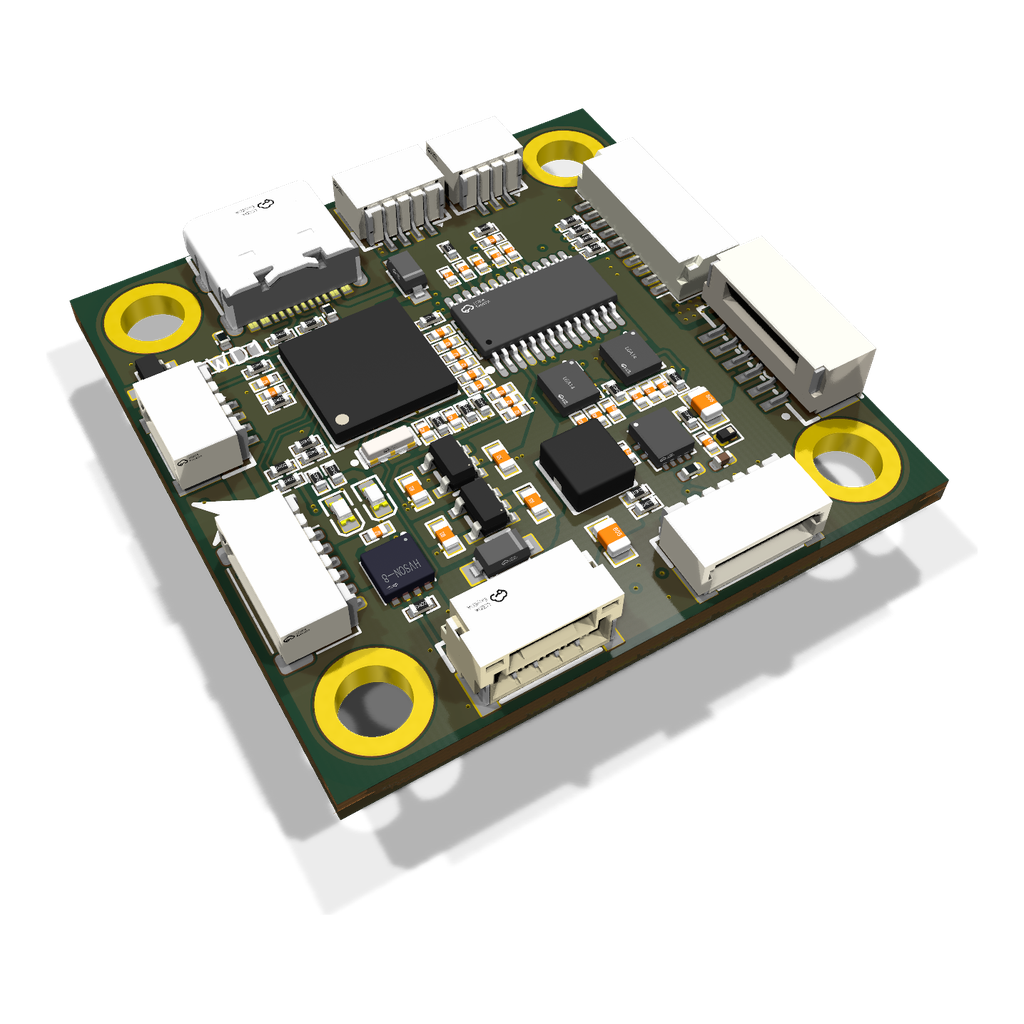
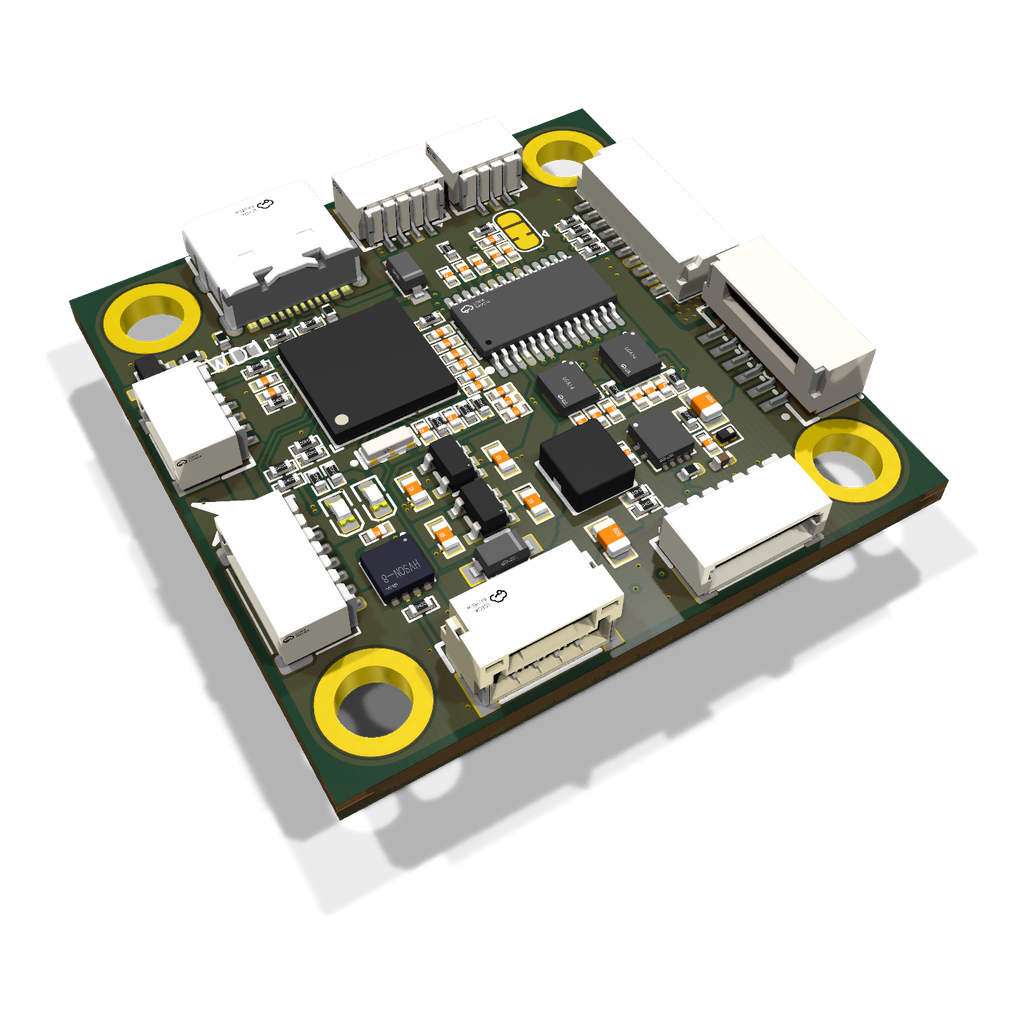
AF-H7 nano V2: Betaflight motor order, power-select jumpers, buzzer switch and jig pads
## Problem
The V2 board changed after 박재량's comments (fc/AF-H7-nano-V2 v0.0.13): motor pads now read M1-M4 in
Betaflight order, camera / VTX supplies can be moved to VBAT, a buzzer + pad with a 1 A switch and a row of
flashing-jig pads were added. The catalog page and pinout still showed the earlier board.

## Solution
- src/content/fc/AF-H7-nano-V2.md: Motor Order, Power Select Pads, Buzzer / Switch and Production Pads specs,
  camera / VTX pin notes, firmware note FRAME_TYPE 12.
- tools/pinout/h7_nano_v2_pinout.py: VTX power jumper on the top figure, ESC pads labelled M1-M4, a third figure
  for the bottom option and production pads, notes updated.
- Images re-rendered from the new board (card, top, bottom, isometric views, pinout).

diff --git a/tools/pinout/h7_nano_v2_pinout.py b/tools/pinout/h7_nano_v2_pinout.py
@@ -57,10 +57,18 @@ TOP = [
     ("CAN", (137.36, 118.38, 146.17, 123.77), "h", range(1, 5), "L", "B"),
     ("DJI O3", (150.65, 118.36, 159.26, 123.86), "h", range(1, 7), "L", "B"),
 ]
+# 아랫면 선택 · 생산 패드(V2 · 박재량 TM8a3d4469 #13~15): 점퍼는 가운데 = 나가는 쪽, 5V/12V 쪽이 구리로 이어져 있다(끊고 반대쪽 납땜)
+OPT = [
+    ("Camera power", "jumper JP1 · cut 5V side, bridge VBAT", (149.77, 89.73, 152.6, 94.39), words("VBAT CAM 5V", "v"), "T"),
+    ("Buzzer + supply", "jumper JP3 · cut 5V side, bridge 12V", (141.14, 90.28, 143.97, 94.92), words("12V BZ+ 5V", "v"), "T"),
+    ("BZ+ pad", "BZ− = the edge pad", (131.41, 92.66, 133.96, 95.2), words("BZ+", "h"), "R"),
+    ("Flashing jig pads", "D1.0 mm · 2.54 mm · BOOT0 to 3V3 = USB DFU", (137.07, 117.97, 151.82, 120.03),
+     words("3V3 BOOT0 − D− D+ VBUS", "h"), "B"),
+]
 # 아랫면 땜 패드(사진 = 아래에서 본 모습, 좌우 거울): (이름, 부제, 판 mm 상자, 표, 표 자리)
 PADS = [
     ("PWM pads", "outer column · silk S5–S10", (165.39, 94.63, 166.89, 115.98), words("S5 S6 S7 S8 S9 S10 5V −", "v"), "L"),
-    ("ESC pads", "inner column · silk S4 S3 S2 S1 = M1–M4", (161.33, 94.63, 162.83, 115.86),
+    ("ESC pads", "inner column · same M1–M4 as the ESC port", (161.33, 94.63, 162.83, 115.86),
      words("M1 M2 M3 M4 − VBAT RX4 TX4", "v"), "L"),
     ("Edge pads", "SPI3 · UART3 · buzzer", (129.83, 94.63, 131.33, 115.86), words("BZ− SCK MISO MOSI CS2 CS1 RX3 TX3", "v"), "R"),
     ("Top pads", "UART1 · WS2812 LED · I2C2", (138.6, 86.42, 160.54, 88.42), words("5V SCL2 SDA2 − LED 5V − RX1 TX1", "h"), "T"),
@@ -82,15 +90,21 @@ def main():
              for n, b, k, o, p1, sd in TOP]
     items.append({"box": box(136.81, 85.82, 146.45, 94.0), "name": "USB-C", "sub": "firmware · power", "table": None, "p1": None,
                   "side": "T"})
+    items.append({"box": box(155.88, 92.08, 158.71, 96.73), "name": "VTX power", "sub": "jumper JP2 · cut 12V side, bridge VBAT",
+                  "table": words("VBAT VTX 12V", "v"), "p1": None, "side": "R"})
     sh.board(region(top, 0, top.shape[1], 0, top.shape[0]), items, img_w=760)
     sh.caption("Bottom — solder pads (seen from below, so left and right are swapped)")
     sh.board(region(bot, 0, bot.shape[1], 0, bot.shape[0]),
              [{"box": box(*b, bottom=True), "name": n, "sub": s, "table": t, "p1": None, "side": sd} for n, s, b, t, sd in PADS],
              img_w=700)
+    sh.caption("Bottom — option and production pads (seen from below)")
+    sh.board(region(bot, 0, bot.shape[1], 0, bot.shape[0]),
+             [{"box": box(*b, bottom=True), "name": n, "sub": s, "table": t, "p1": None, "side": sd} for n, s, b, t, sd in OPT],
+             img_w=700)
     sh.note(["5V on GPS, RC, CAN, the top pads and the PWM-column pad is the USB-or-battery rail: it is on with USB alone.",
-             "The camera 5V and the bottom-pad 5V are the battery 5 V regulator. 12 V (silk 10V) and VBAT come only from the battery.",
+             "The camera 5V and the bottom-pad 5V are the battery 5 V regulator. 12 V and VBAT come only from the battery.",
              "UART4 goes to both DJI O3 and OpenIPC (and the RX4/TX4 pads) — use one of them.",
-             "Pad silk S1–S4 counts the other way: the pad printed S4 is M1 (PWM1), S1 is M4 — same order as the ESC port."])
+             "M1–M4 = Betaflight motors 1–4 (1 rear right · 2 front right · 3 rear left · 4 front left), ArduPilot FRAME_TYPE 12."])
     out = os.path.join(OUT, "fc_AF-H7-nano-V2_pinout.png")
     rep = sh.save(out)
     print(out, rep["shown_px"], "min font on screen %.1f px (%r)" % (rep["min_font_screen_px"], rep["smallest_text"]))

diff --git a/src/content/fc/AF-H7-nano-V2.md b/src/content/fc/AF-H7-nano-V2.md
@@ -15,6 +15,10 @@ specs:
   - { key: ESC Port, value: "10-pin JST-SH: GND · GND · VBAT · VBAT · M1–M4 · CUR · TEL — straight 1:1 cable to the novaX AE-8S-60A 4-in-1 V2 ESC" }
   - { key: Current & Telemetry, value: "ESC current on the ESC port (PC1, 40 A per volt, same scale as the ESC) · ESC telemetry on SERIAL7 (UART7 RX)" }
   - { key: PWM Output, value: "10 motor/servo channels (M1–M4 on the ESC port and pads, S5–S10 on pads) + 1 WS2812 LED pad" }
+  - { key: Motor Order, value: "Betaflight order out of the box — 1 rear right · 2 front right · 3 rear left · 4 front left; ArduPilot default FRAME_TYPE 12 (BetaFlightX), so the 1:1 ESC cable needs no remapping" }
+  - { key: Power Select Pads, value: "Camera 5 V or VBAT · VTX 12 V or VBAT — 3-pad solder jumpers on the bottom (cut and bridge); VBAT only for devices rated for the pack" }
+  - { key: Buzzer / Switch, value: "BZ+ pad (5 V or 12 V by solder jumper) and BZ− on a 30 V 5.8 A MOSFET — a buzzer, or on/off for another device (ArduPilot relay · Betaflight PINIO)" }
+  - { key: Production Pads, value: "VBUS · D+ · D− · GND · BOOT0 · 3V3 test pads on a 2.54 mm row — flashing jigs program several boards over one USB hub, no button" }
   - { key: Serial Mapping, value: "SERIAL1 = USART1 · SERIAL2 = USART2 · SERIAL3 = USART3 · SERIAL4 = UART4 · SERIAL6 = USART6 · SERIAL7 = UART7 · SERIAL8 = UART8 (USB = SERIAL0)" }
   - { key: Ports, value: "GPS + compass · ELRS/RC · analog VTX · analog camera · DJI O3 · OpenIPC · CAN (JST-GH, Pixhawk order) · SWD pads" }
   - { key: CAN, value: "1 port · TI TCAN3413 3.3 V CAN FD transceiver — works on USB power" }
@@ -30,7 +34,7 @@ pinoutImages:
   - /images/products/fc_AF-H7-nano-V2_pinout.png
 pinoutNotes: |
   Figure: top connectors, then the bottom solder pads seen from below (left and right swapped). Pin numbers are the connector's own pin 1, marked with a red 1.
-  The 5 V on GPS, RC and CAN is the USB-or-battery rail; the camera 5 V is the battery 5 V regulator; 12 V and VBAT come only from the battery. UART4 goes to both the DJI O3 and OpenIPC connectors — use one of them. On the bottom pads the printed S1–S4 count the other way: the pad printed S4 is M1 (PWM1).
+  The 5 V on GPS, RC and CAN is the USB-or-battery rail; the camera 5 V is the battery 5 V regulator; 12 V and VBAT come only from the battery. The camera and VTX supplies can be moved to VBAT with their bottom solder jumpers. UART4 goes to both the DJI O3 and OpenIPC connectors — use one of them. Motor pads M1–M4 are the ESC port's M1–M4 (Betaflight order).
 pinTable:
   - name: ESC
     type: JST-SH 1.0 mm 10P (JST SM10B-SRSS-TB)
@@ -68,7 +72,7 @@ pinTable:
     type: JST-SH 1.0 mm 4P
     mapping: SERIAL1 TX (USART1) — 12 V analog VTX, OSD video out and VTX control
     pins:
-      - { pin: 1, signal: 12V, function: "12 V (battery only)" }
+      - { pin: 1, signal: 12V, function: "12 V by default, or VBAT with solder jumper JP2" }
       - { pin: 2, signal: GND, function: "Ground" }
       - { pin: 3, signal: VIDEO, function: "Video out (with OSD)" }
       - { pin: 4, signal: TX, function: "USART1 TX — SmartAudio / Tramp" }
@@ -76,7 +80,7 @@ pinTable:
     type: JST-SH 1.0 mm 3P
     mapping: Analog camera in — the OSD overlays it
     pins:
-      - { pin: 1, signal: 5V, function: "5 V (battery 5 V regulator)" }
+      - { pin: 1, signal: 5V, function: "5 V by default (battery 5 V regulator), or VBAT with solder jumper JP1" }
       - { pin: 2, signal: GND, function: "Ground" }
       - { pin: 3, signal: VIDEO, function: "Camera video in" }
   - name: DJI O3
@@ -116,7 +120,7 @@ pinTable:
       - { pin: 3, signal: SWDIO, function: "SWD data" }
       - { pin: 4, signal: SWCLK, function: "SWD clock" }
 firmwareNotes: |
-  No firmware release yet — V2 images will be listed here with the board. V2 keeps the AF-H7 nano serial mapping above and adds the ESC current (PC1) and telemetry (SERIAL7) inputs.
+  No firmware release yet — V2 images will be listed here with the board. V2 keeps the AF-H7 nano serial mapping above, adds the ESC current (PC1) and telemetry (SERIAL7) inputs, and defaults to the Betaflight motor order (FRAME_TYPE 12).
 gallery:
   - { src: /images/products/fc_AF-H7-nano-V2_iso.png, caption: "Isometric — 3D render, design stage" }
   - { src: /images/products/fc_AF-H7-nano-V2_top.png, caption: Top }
